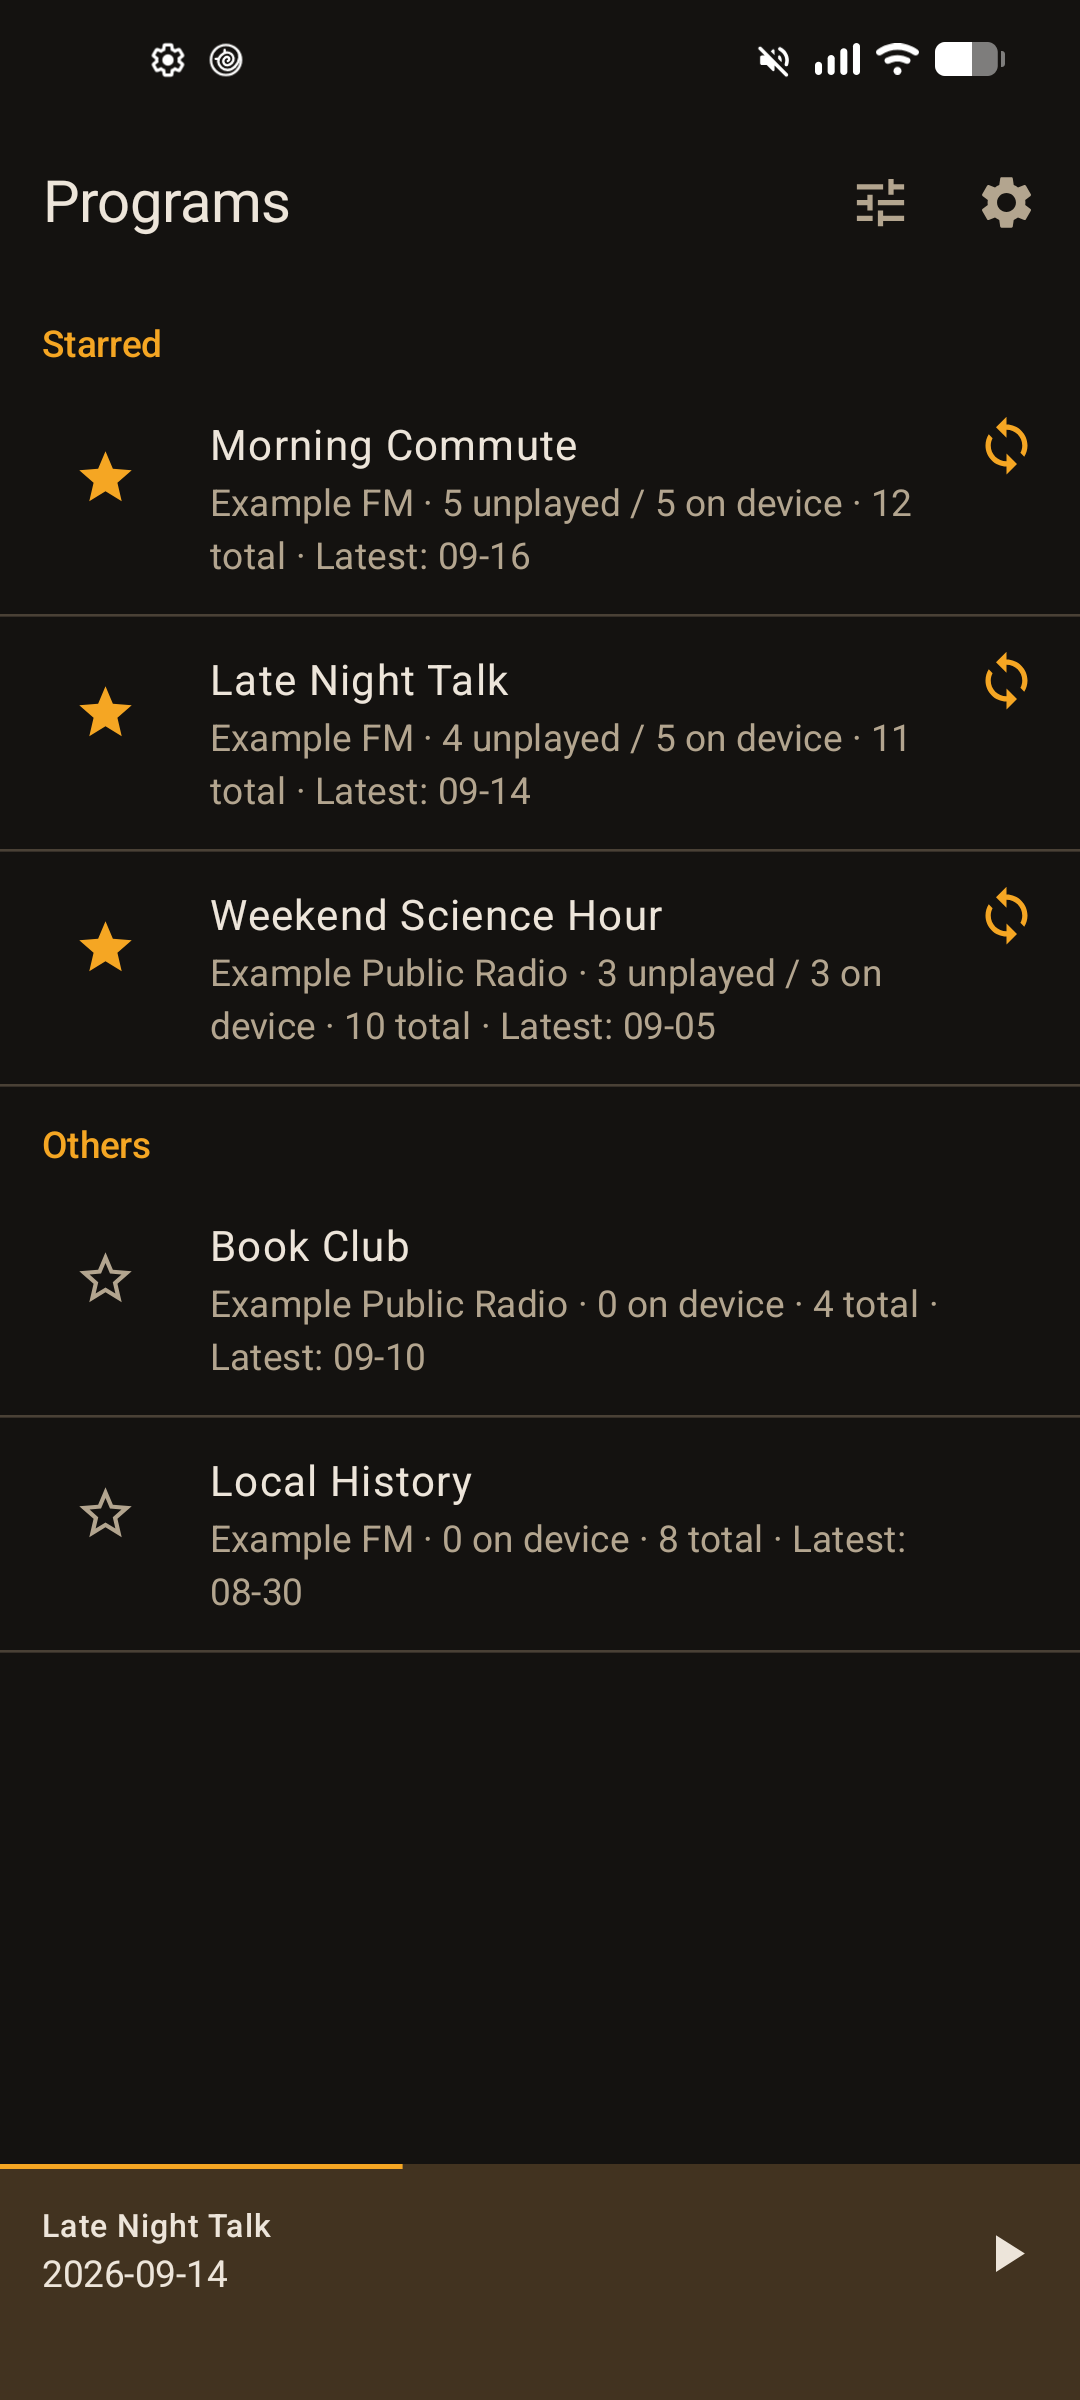
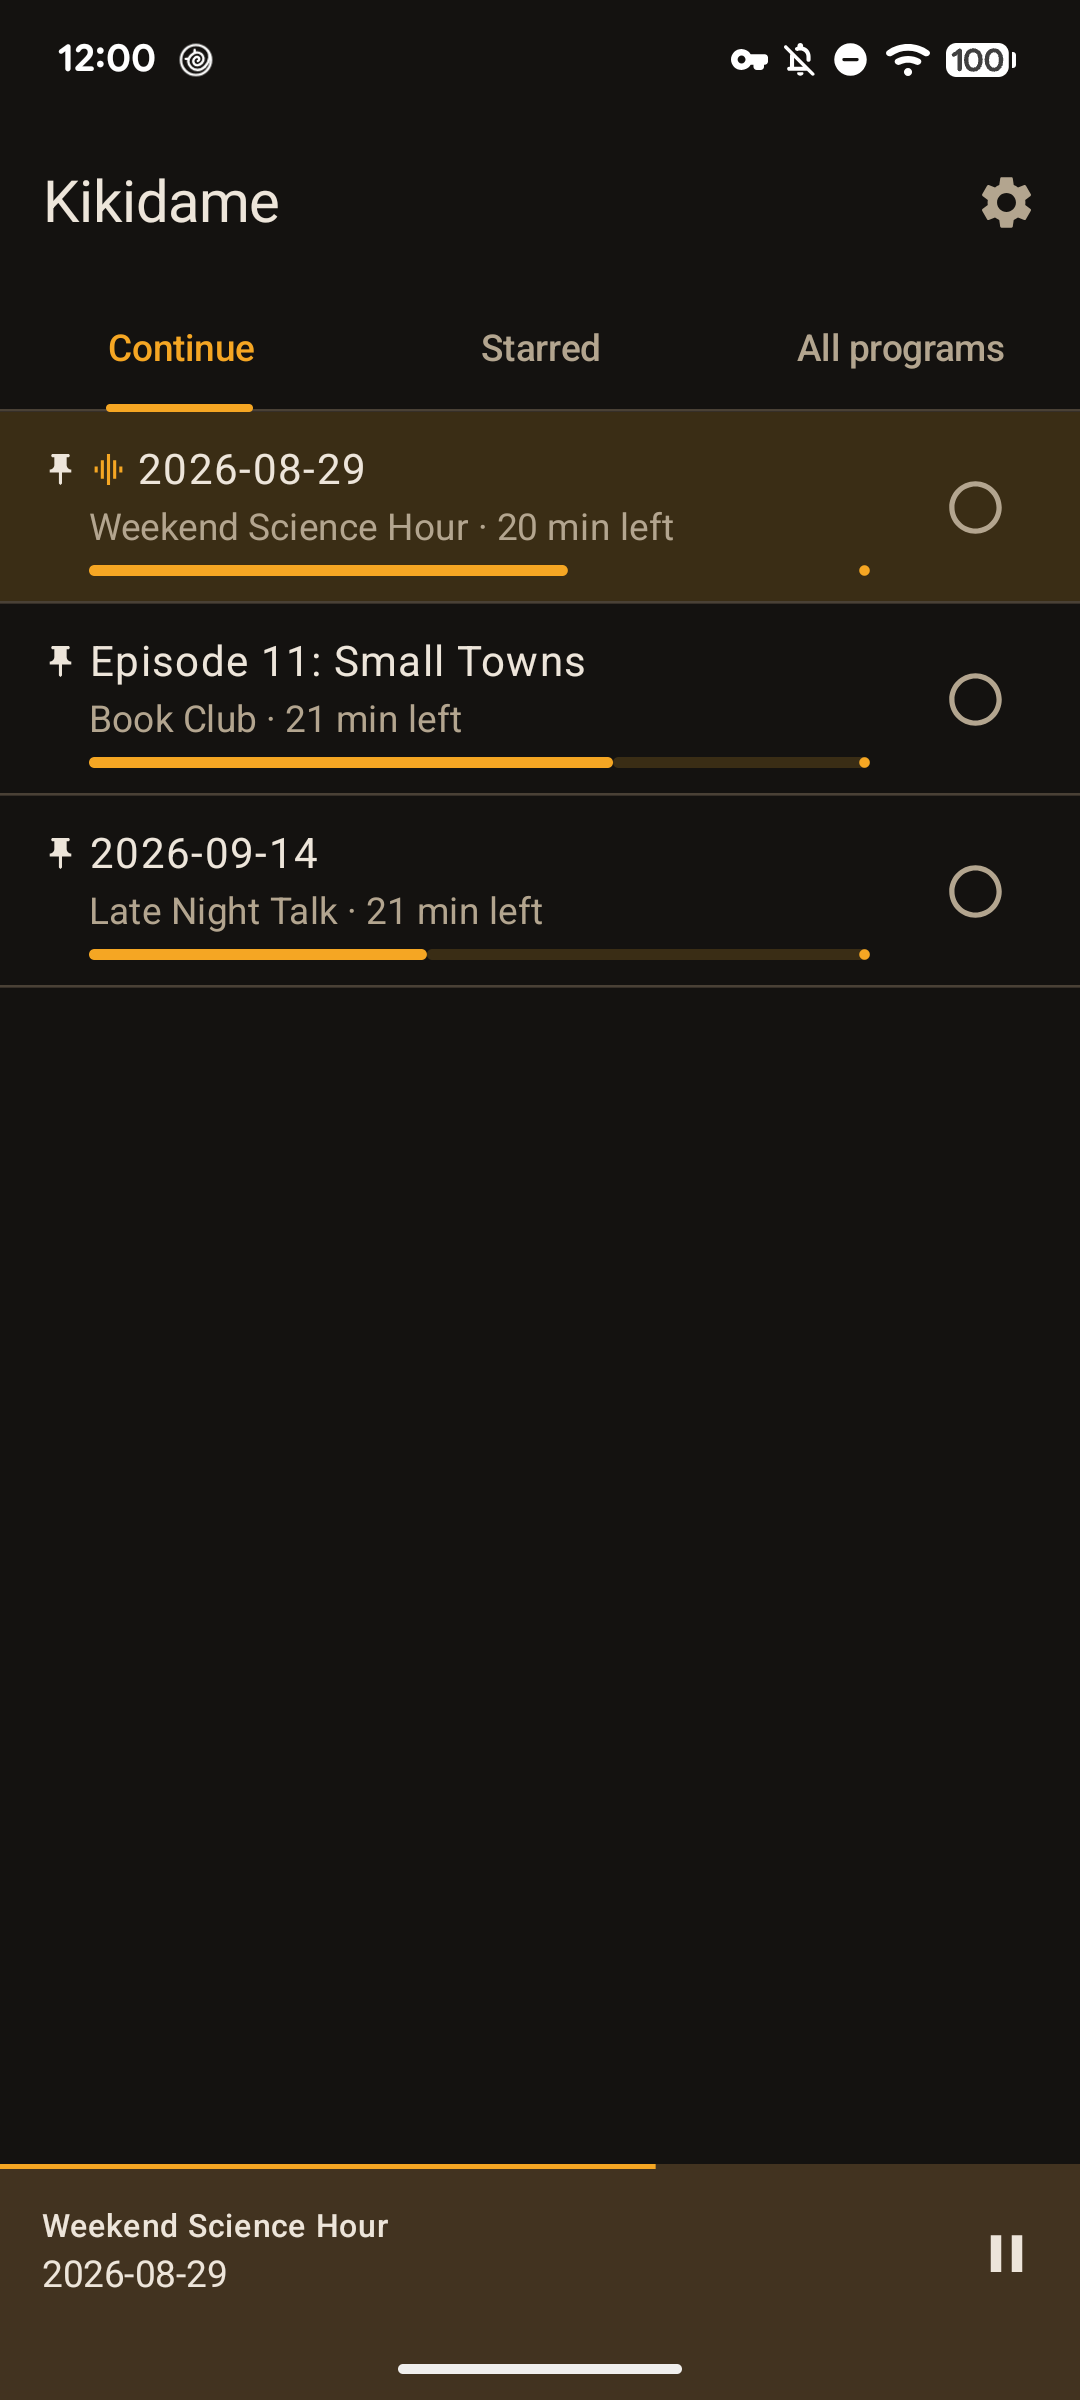
docs: ストア用スクリーンショットの 1・2・4 枚目を、タブになった番組の画面と今の各回一覧で撮り直す (#169)
* docs: README のスクリーンショット 1 枚目を「続きから」タブに撮り直す (#154)

* docs: スクリーンショットの 2.png（各回一覧）と 4.png（同期設定）も撮り直す (#154)

---------

diff --git a/README.ja.md b/README.ja.md
@@ -5,13 +5,13 @@ English: [README.md](./README.md)
 Jellyfin サーバに音楽ライブラリとして取り込まれた**番組型の音声**（ラジオ録音・ポッドキャスト）を、番組単位のルールで自動ダウンロード／削除し、サーバに到達できなくても聴けるようにする Android アプリ。Jellyfin プロジェクトとは無関係の非公式クライアントです。
 
 <p>
-<img src="fastlane/metadata/android/en-US/images/phoneScreenshots/1.png" width="180" alt="Programs"> <img src="fastlane/metadata/android/en-US/images/phoneScreenshots/2.png" width="180" alt="Episodes"> <img src="fastlane/metadata/android/en-US/images/phoneScreenshots/3.png" width="180" alt="Player"> <img src="fastlane/metadata/android/en-US/images/phoneScreenshots/4.png" width="180" alt="Sync settings">
+<img src="fastlane/metadata/android/en-US/images/phoneScreenshots/1.png" width="180" alt="Continue"> <img src="fastlane/metadata/android/en-US/images/phoneScreenshots/2.png" width="180" alt="Episodes"> <img src="fastlane/metadata/android/en-US/images/phoneScreenshots/3.png" width="180" alt="Player"> <img src="fastlane/metadata/android/en-US/images/phoneScreenshots/4.png" width="180" alt="Sync settings">
 </p>
 <p>
 <img src="fastlane/metadata/android/en-US/images/phoneScreenshots/5.png" width="480" alt="Android Auto">
 </p>
 
-スクリーンショット: 番組一覧・各回一覧・再生画面・同期設定・Android Auto（英語 UI）
+スクリーンショット: 続きから・各回一覧・再生画面・同期設定・Android Auto（英語 UI）
 
 名前は「聴き溜め」から。録り溜めた回を、時間のあるときに手元で聴く、というアプリの用途そのものです。
 

diff --git a/README.md b/README.md
@@ -5,13 +5,13 @@
 An Android app for **episodic audio** (radio recordings and podcasts) kept in a Jellyfin music library. It downloads and deletes episodes automatically by per-program rules, and keeps playing when the server is unreachable. Kikidame is an unofficial client with no affiliation to the Jellyfin project.
 
 <p>
-<img src="fastlane/metadata/android/en-US/images/phoneScreenshots/1.png" width="180" alt="Programs"> <img src="fastlane/metadata/android/en-US/images/phoneScreenshots/2.png" width="180" alt="Episodes"> <img src="fastlane/metadata/android/en-US/images/phoneScreenshots/3.png" width="180" alt="Player"> <img src="fastlane/metadata/android/en-US/images/phoneScreenshots/4.png" width="180" alt="Sync settings">
+<img src="fastlane/metadata/android/en-US/images/phoneScreenshots/1.png" width="180" alt="Continue"> <img src="fastlane/metadata/android/en-US/images/phoneScreenshots/2.png" width="180" alt="Episodes"> <img src="fastlane/metadata/android/en-US/images/phoneScreenshots/3.png" width="180" alt="Player"> <img src="fastlane/metadata/android/en-US/images/phoneScreenshots/4.png" width="180" alt="Sync settings">
 </p>
 <p>
 <img src="fastlane/metadata/android/en-US/images/phoneScreenshots/5.png" width="480" alt="Android Auto">
 </p>
 
-Screenshots: programs, episodes, player, sync settings, and Android Auto (English UI).
+Screenshots: continue, episodes, player, sync settings, and Android Auto (English UI).
 
 The name comes from the Japanese *kiki-dame* ("listen to what you have saved up"): record the episodes as they air, then listen to them on your phone when you have time.
 
